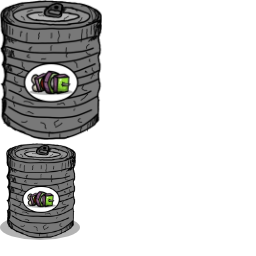
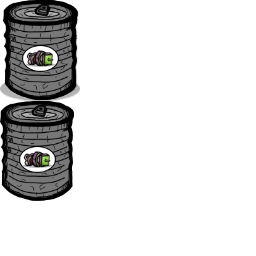
botched localisation attempt + string fix

Changed region(s): [[0.0, 0.0, 0.4062, 0.9375]]

diff --git a/UtilLibs/InjectionMethods.cs b/UtilLibs/InjectionMethods.cs
@@ -43,6 +43,27 @@ namespace UtilLibs
 			Strings.Add($"STRINGS.CREATURES.FAMILY.{creatureId.ToUpperInvariant()}", UI.FormatAsLink(name, creatureId));
 			Strings.Add($"STRINGS.CREATURES.FAMILY_PLURAL.{creatureId.ToUpperInvariant()}", UI.FormatAsLink(name+"s", creatureId));
 		}
+        public static void AddPlantStrings(string plantId, string name, string description, string domesticatedDescription)
+        {
+            Strings.Add($"STRINGS.CREATURES.SPECIES.{plantId.ToUpperInvariant()}.NAME", UI.FormatAsLink(name, plantId));
+            Strings.Add($"STRINGS.CREATURES.SPECIES.{plantId.ToUpperInvariant()}.DESC", description);
+            Strings.Add($"STRINGS.CREATURES.SPECIES.{plantId.ToUpperInvariant()}.DOMESTICATEDDESC", domesticatedDescription);
+        }
+
+        public static void AddPlantSeedStrings(string plantId, string name, string description)
+        {
+            Strings.Add($"STRINGS.CREATURES.SPECIES.SEEDS.{plantId.ToUpperInvariant()}.NAME", UI.FormatAsLink(name, plantId));
+            Strings.Add($"STRINGS.CREATURES.SPECIES.SEEDS.{plantId.ToUpperInvariant()}.DESC", description);
+        }
+
+        public static void AddFoodStrings(string foodId, string name, string description, string recipeDescription = null)
+        {
+            Strings.Add($"STRINGS.ITEMS.FOOD.{foodId.ToUpperInvariant()}.NAME", UI.FormatAsLink(name, foodId));
+            Strings.Add($"STRINGS.ITEMS.FOOD.{foodId.ToUpperInvariant()}.DESC", description);
+
+            if (recipeDescription != null)
+                Strings.Add($"STRINGS.ITEMS.FOOD.{foodId.ToUpperInvariant()}.RECIPEDESC", recipeDescription);
+        }
 
         public static void Action(Tag speciesTag, string name, Dictionary<string, CodexEntry> results)
         {

diff --git a/CannedFoodNGoods/Foods/FoodPatches.cs b/CannedFoodNGoods/Foods/FoodPatches.cs
@@ -25,7 +25,7 @@ namespace CannedFoods.Foods
             {
                 RecipeElement[] input = new RecipeElement[]
                 {
-                    new RecipeElement(SimHashes.Iron.CreateTag(), 0.5f),
+                    new RecipeElement(SimHashes.Copper.CreateTag(), 0.5f),
                     new RecipeElement(CookedFishConfig.ID, 0.5f)
                 };
 
@@ -39,7 +39,7 @@ namespace CannedFoods.Foods
                 CannedTunaConfig.recipe = new ComplexRecipe(recipeID, input, output)
                 {
                     time = FOOD.RECIPES.SMALL_COOK_TIME,
-                    description = STRINGS.ITEMS.FOOD.CF_CANNEDFISH.DESC,
+                    description = STRINGS.ITEMS.FOOD.CF_CANNEDTUNA.DESC,
                     nameDisplay = RecipeNameDisplay.Result,
                     fabricators = new List<Tag> { CraftingTableConfig.ID }
                 };
@@ -49,7 +49,7 @@ namespace CannedFoods.Foods
             {
                 RecipeElement[] input = new RecipeElement[]
                 {
-                    new RecipeElement(SimHashes.Iron.CreateTag(), 0.5f),
+                    new RecipeElement(SimHashes.Copper.CreateTag(), 0.5f),
                     new RecipeElement(CookedMeatConfig.ID, 0.5f)
                 };
 

diff --git a/UtilLibs/LocalisationUtil.cs b/UtilLibs/LocalisationUtil.cs
@@ -1,0 +1,41 @@
+using KMod;
+using System;
+using System.Collections.Generic;
+using System.IO;
+using System.Linq;
+using System.Text;
+using System.Threading.Tasks;
+
+namespace UtilLibs
+{
+    public class LocalisationUtil
+    {
+        public static void Translate(Type root, bool generateTemplate = false)
+        {
+            Localization.RegisterForTranslation(root);
+            LoadStrings();
+            LocString.CreateLocStringKeys(root, null);
+
+            if (generateTemplate)
+            {
+                Localization.GenerateStringsTemplate(root, Path.Combine(Manager.GetDirectory(), "strings_templates"));
+            }
+        }
+
+        // Loads user created translations
+        private static void LoadStrings()
+        {
+            string code = Localization.GetLocale()?.Code;
+
+            if (code.IsNullOrWhiteSpace()) return;
+
+            string path = Path.Combine(UtilMethods.ModPath, "translations", code + ".po");
+
+            if (File.Exists(path))
+            {
+                Localization.OverloadStrings(Localization.LoadStringsFile(path, false));
+                Debug.Log($"Found translation file for {code}.");
+            }
+        }
+    }
+}

diff --git a/CannedFoodNGoods/Foods/CannedTunaConfig.cs b/CannedFoodNGoods/Foods/CannedTunaConfig.cs
@@ -17,16 +17,16 @@ namespace CannedFoods.Foods
         {
             GameObject prefab = EntityTemplates.CreateLooseEntity(
                 id: ID,
-                name: STRINGS.ITEMS.FOOD.CF_CANNEDFISH.NAME,
-                desc: STRINGS.ITEMS.FOOD.CF_CANNEDFISH.DESC,
+                name: STRINGS.ITEMS.FOOD.CF_CANNEDTUNA.NAME,
+                desc: STRINGS.ITEMS.FOOD.CF_CANNEDTUNA.DESC,
                 mass: 1f,
                 unitMass: false,
                 anim: Assets.GetAnim("canned_tuna_kanim"),
                 initialAnim: "object",
                 sceneLayer: Grid.SceneLayer.Front,
                 collisionShape: EntityTemplates.CollisionShape.RECTANGLE,
-                width: 0.9f,
-                height: 0.45f,
+                width: 0.8f,
+                height: 0.4f,
                 isPickupable: true,
                 sortOrder: 0,
                 element: SimHashes.Creature,
@@ -56,6 +56,7 @@ namespace CannedFoods.Foods
 
         public void OnPrefabInit(GameObject inst)
         {
+            inst.AddOrGet<CanRecycler>();
         }
 
         public void OnSpawn(GameObject inst)

diff --git a/CannedFoodNGoods/Foods/CanRecycler.cs b/CannedFoodNGoods/Foods/CanRecycler.cs
@@ -1,0 +1,22 @@
+using System;
+using System.Collections.Generic;
+using System.Linq;
+using System.Text;
+using System.Threading.Tasks;
+
+namespace CannedFoods.Foods
+{
+    class CanRecycler : KMonoBehaviour
+    {
+        //drop the material used for the can on eat :D
+        protected override void OnCleanUp() 
+        {
+
+            var element = ElementLoader.FindElementByHash(SimHashes.Copper);
+            var temperature = gameObject.GetComponent<PrimaryElement>().Temperature;
+            var pos = Grid.CellToPosCCC(Grid.PosToCell(gameObject.transform.GetPosition()), Grid.SceneLayer.Ore);
+            element.substance.SpawnResource(pos, 0.5f, temperature, 0, 0);
+            base.OnCleanUp();
+        }
+    }
+}

diff --git a/CannedFoodNGoods/Foods/CannedBBQConfig.cs b/CannedFoodNGoods/Foods/CannedBBQConfig.cs
@@ -25,8 +25,8 @@ namespace CannedFoods.Foods
                 initialAnim: "object",
                 sceneLayer: Grid.SceneLayer.Front,
                 collisionShape: EntityTemplates.CollisionShape.RECTANGLE,
-                width: 0.5f,
-                height: 0.7f,
+                width: 0.4f,
+                height: 0.5f,
                 isPickupable: true,
                 sortOrder: 0,
                 element: SimHashes.Creature,
@@ -53,6 +53,7 @@ namespace CannedFoods.Foods
 
         public void OnPrefabInit(GameObject inst)
         {
+            inst.AddOrGet<CanRecycler>();
         }
 
         public void OnSpawn(GameObject inst)

diff --git a/CannedFoodNGoods/stringPatches.cs b/CannedFoodNGoods/stringPatches.cs
@@ -1,0 +1,20 @@
+using CannedFoods.Foods;
+using HarmonyLib;
+using UtilLibs;
+
+namespace CannedFoods
+{
+    class StringPatches
+    {
+		[HarmonyPatch(typeof(EntityConfigManager))]
+		[HarmonyPatch(nameof(EntityConfigManager.LoadGeneratedEntities))]
+		public class EntityConfigManager_LoadGeneratedEntities_Patch
+		{
+			public static void Prefix()
+			{
+				InjectionMethods.AddFoodStrings(CannedBBQConfig.ID, STRINGS.ITEMS.FOOD.CF_CANNEDBBQ.NAME, STRINGS.ITEMS.FOOD.CF_CANNEDBBQ.DESC);
+				InjectionMethods.AddFoodStrings(CannedTunaConfig.ID, STRINGS.ITEMS.FOOD.CF_CANNEDTUNA.NAME, STRINGS.ITEMS.FOOD.CF_CANNEDTUNA.DESC);
+			}
+		}
+	}
+}

diff --git a/CannedFoodNGoods/STRINGS.cs b/CannedFoodNGoods/STRINGS.cs
@@ -13,7 +13,7 @@ namespace CannedFoods
                     public static LocString NAME = global::STRINGS.UI.FormatAsLink("Canned Barbecue", CannedBBQConfig.ID);
                     public static LocString DESC = "Barbecue preserved for the ages.";
                 }
-                public class CF_CANNEDFISH
+                public class CF_CANNEDTUNA
                 {
                     public static LocString NAME = global::STRINGS.UI.FormatAsLink("Canned Tuna", CannedTunaConfig.ID);
                     public static LocString DESC = "Pacu fry preserved for the ages.\nIncreases radiation resistance on consumption.";

diff --git a/UtilLibs/UtilMethods.cs b/UtilLibs/UtilMethods.cs
@@ -1,6 +1,8 @@
 using System;
 using System.Collections.Generic;
+using System.IO;
 using System.Linq;
+using System.Reflection;
 using System.Text;
 using System.Threading.Tasks;
 
@@ -8,6 +10,7 @@ namespace UtilLibs
 {
     public static class UtilMethods
     {
+        public static string ModPath => Path.GetDirectoryName(Assembly.GetExecutingAssembly().Location);
         public static bool IsCellInSpaceAndVacuum(int _cell)
         {
             return (Grid.IsCellOpenToSpace(_cell) || IsCellInRocket(_cell)) && Grid.Mass[_cell] == 0;
